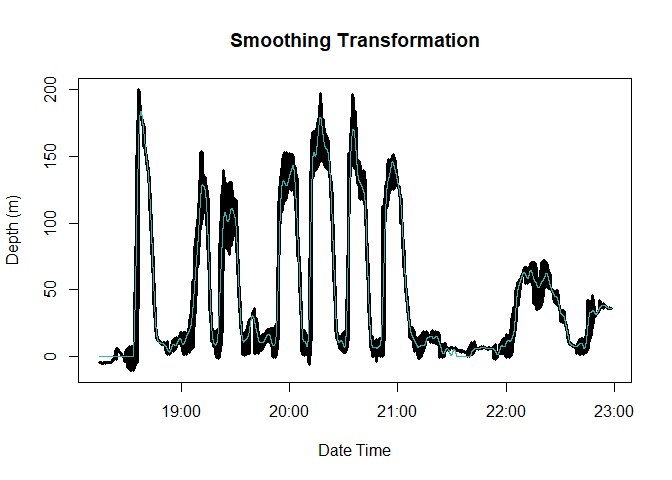
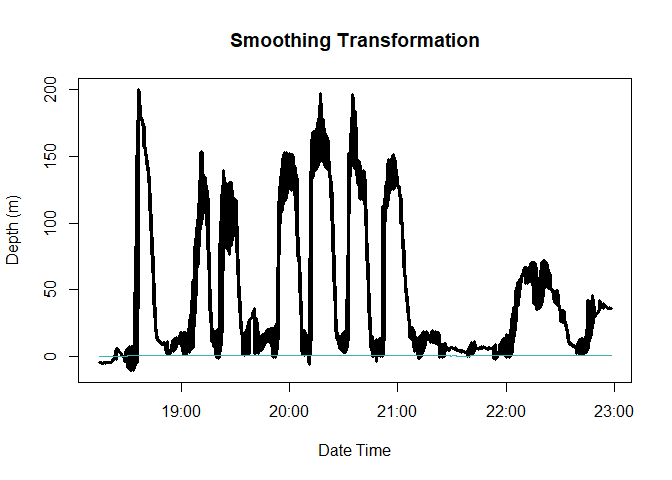
removed non-essential columns from smoothing function

diff --git a/README.md b/README.md
@@ -33,12 +33,11 @@ There are six main recovery steps that are achieved in this package:
 
 ## Installation
 
-You can install the released version of recoverKBTDR from
-[CRAN](https://CRAN.R-project.org) with:
+You can install the package from GitHub:
 
 ``` r
 # load the development version: 
-devtools::install_github("EmmaLiTsai/recoverKBTDR")
+# devtools::install_github("EmmaLiTsai/recoverKBTDR")
 library(recoverKBTDR)
 ```
 
@@ -47,7 +46,9 @@ library(recoverKBTDR)
 This is a basic example of the intended workflow for historic record
 recovery:
 
-First, read in data after scan image processing:
+First, read in data (trace and time dots) after scan image processing,
+which contains the X and Y values of the record in centimeters from the
+origin:
 
 ``` r
 # examples of data tidying from raw ImageJ csv files: 
@@ -97,9 +98,11 @@ head(time_dots)
     ## 5  7.50 -0.331
     ## 6  8.91 -0.354
 
-Center the scan using the timing dots, such that all timing dots will be
-centered along y = -center\_along\_y. This helps remove drift in
-alignment due to record scanning:
+Center the record using the timing dots, such that all timing dots will
+be centered along y = -center_along_y. After centering, it is
+recommended that you also extract the centered psi calibration curve (if
+available) such that the data correctly align with the centered dive
+record. This helps remove drift in alignment due to record scanning:
 
 ``` r
 # centering along y = -0.9: 
@@ -142,9 +145,9 @@ points(trace_zoc[1000:11000,], col = "#39b3b2")
 
 ![](README_files/figure-gfm/zoc-1.png)<!-- -->
 
-Transform the x-axis into minutes using the timing dots, and remove the
-arc in the data by defining the height of the pivot point above y = 0
-(center\_y, in cm).
+Transform the x-axis into minutes using the timing dots (often placed 12
+minutes apart), and remove the arc in the data by defining the height of
+the pivot point above y = 0 (center_y, in cm).
 
 ``` r
 # removing the data frame and also transform the x-axis to time in minutes from the origin. 
@@ -165,16 +168,17 @@ lines(trace[1000:11000, c(3,2)], col = "#39b3b2")
 ```
 
 The seal often moved faster than the LED arm could document the dive
-during the descent and ascent phases. The function add\_dates\_times()
-uses the trace data frame to add a POSIXct date time object, and also
-interpolates between missing values to create a regular time series.
+during the descent and ascent phases. The function add_dates_times()
+uses the trace data frame to create POSIXct date time objects, and also
+interpolates between missing values to create a more regular time
+series. This helps with future spline smoothing and dive analysis.
 
 ``` r
 trace <- add_dates_times(trace,
-                      start_time = "1981:01:16 15:10:00",
-                      on_seal = "1981:01:16 17:58:00",
-                      off_seal = "1981:01:23 15:30:00", 
-                      tz = "Antarctica/McMurdo")
+                         start_time = "1981:01:16 15:10:00",
+                         on_seal = "1981:01:16 17:58:00",
+                         off_seal = "1981:01:23 15:30:00", 
+                         tz = "Antarctica/McMurdo")
 # now, the record is complete with POSIXct date times: 
 head(trace)
 ```
@@ -187,8 +191,8 @@ head(trace)
     ## 5 1981-01-16 17:58:04 19.710 0.023 19.72431 168.0769 0.02300000
     ## 6 1981-01-16 17:58:05     NA    NA       NA       NA 0.01866667
 
-Transform y-axis to depth either using the maximum depth, or psi
-calibration curve:
+Transform y-axis to depth either using the maximum depth or psi
+calibration curve (if available):
 
 ``` r
 # If psi calibration curve is present:
@@ -203,16 +207,17 @@ plot(trace[1000:18000, c(1,8)],xlab = "Date Time", ylab = "Depth (m)", type = "l
 
 ![](README_files/figure-gfm/transform-to-depth-1.png)<!-- -->
 
-Spline smoothing to reduce noise in the data by passing the spar value
-and depth threshold (in meters) to use when a dive is detected:
+Spline smoothing is done to reduce noise in the data by passing the spar
+value and depth threshold (in meters) to use when a dive is detected:
 
 ``` r
 # smoothing the data frame with a rolling mean depth threshold of 5, and a spar value of 0.3 when a dive is detected: 
 trace <- smooth_trace_dive(trace, spar_h = 0.3, depth_thresh = 5)
 
 # seeing how smoothing preformed: 
-plot(trace[1000:18000, c(1,8)], xlab = "Date Time", ylab = "Depth (m)", type = "l", main = "Smoothing Transformation", lwd = 3)
-lines(trace[1000:18000, c(1,10)], col = "#39b3b2")
+{plot(trace[1000:18000, c(1,8)], xlab = "Date Time", ylab = "Depth (m)", type = "l", main = "Smoothing Transformation", lwd = 3)
+lines(trace[1000:18000, c(1,9)], col = "#39b3b2")
+}
 ```
 
 ![](README_files/figure-gfm/smoothing-data-1.png)<!-- -->
